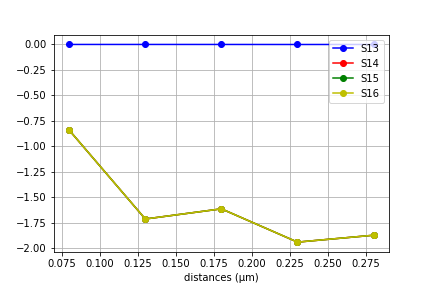
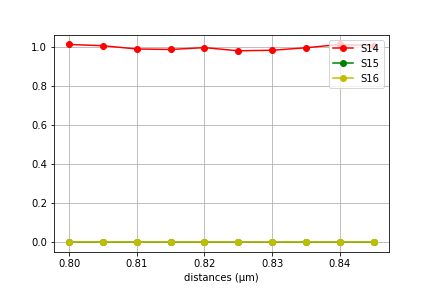
com o for para 3BS

Changed region(s): [[0.0301, 0.125, 0.9028, 0.9375]]

diff --git a/3BS/for_triBS.py b/3BS/for_triBS.py
@@ -14,9 +14,9 @@ import matplotlib.pyplot as plt
 
 #BS com o material que iremos usar nos chips e o comprimento de onda tbm 0.8
 #
-d = 0.08 
+d = 0.8 
 default_d = 0.2 # branch separition in GDS
-p=5 #numero de vezes que a simulacao ocorrera
+p=10 #numero de vezes que a simulacao ocorrera
 I =[]
 
 res = 25        # pixels/μm
@@ -136,6 +136,7 @@ for i in range(p):
     p6_coeff = sim.get_eigenmode_coefficients(mode6, [1], eig_parity=mp.NO_PARITY if three_d else mp.EVEN_Y+mp.ODD_Z).alpha[0,0,0]
     
     # transmittance
+    p1_trans = abs(p1_coeff)**2/abs(p1_coeff)**2
     p2_trans = abs(p2_coeff)**2/abs(p1_coeff)**2
     p3_trans = abs(p3_coeff)**2/abs(p1_coeff)**2
     p4_trans = abs(p4_coeff)**2/abs(p1_coeff)**2
@@ -147,12 +148,12 @@ for i in range(p):
        # branch separation
     S =[]
     S.append(complex(d))
-    S.append(p1_coeff)
-    S.append(p2_coeff)
-    S.append(p3_coeff)
-    S.append(p4_coeff)
-    S.append(p5_coeff)
-    S.append(p6_coeff)
+    S.append(p1_trans)
+    S.append(p2_trans)
+    S.append(p3_trans)
+    S.append(p4_trans)
+    S.append(p5_trans)
+    S.append(p6_trans)
    
     I.append(S)
     d=d+0.05
